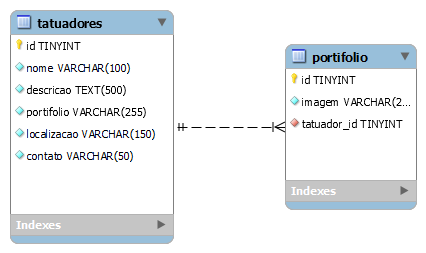
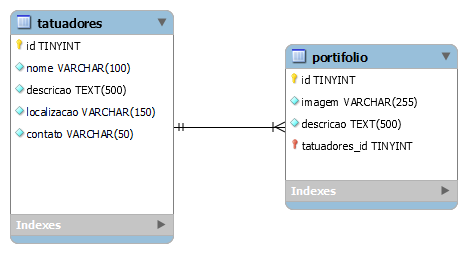
Ajuste no workbench e adicionado informações sobre uso do site

diff --git a/README.md b/README.md
@@ -25,6 +25,23 @@ A interface do site é projetada para ser intuitiva e de fácil navegação, pro
 5. Suporte e Segurança: 
 Oferecemos suporte técnico aos usuários e implementamos medidas de segurança para proteger os dados pessoais e o conteúdo dos tatuadores.
 
+## Guia de Uso
+
+### Cadastro de Tatuadores
+
+1. Acesse a página de cadastro.
+
+2. Preencha o formulário com suas informações pessoais e profissionais.
+
+3. Clique em "Registrar" para criar sua conta.
+
+### Criação de Portfólios
+
+1. Faça o login na sua conta de tatuador.
+
+2. Acesse a seção "Meu Portfólio"
+
+
 ## Documentação do Projeto
 
 ### MySQL Workbench (Modelo Lógico do DATABASE)
